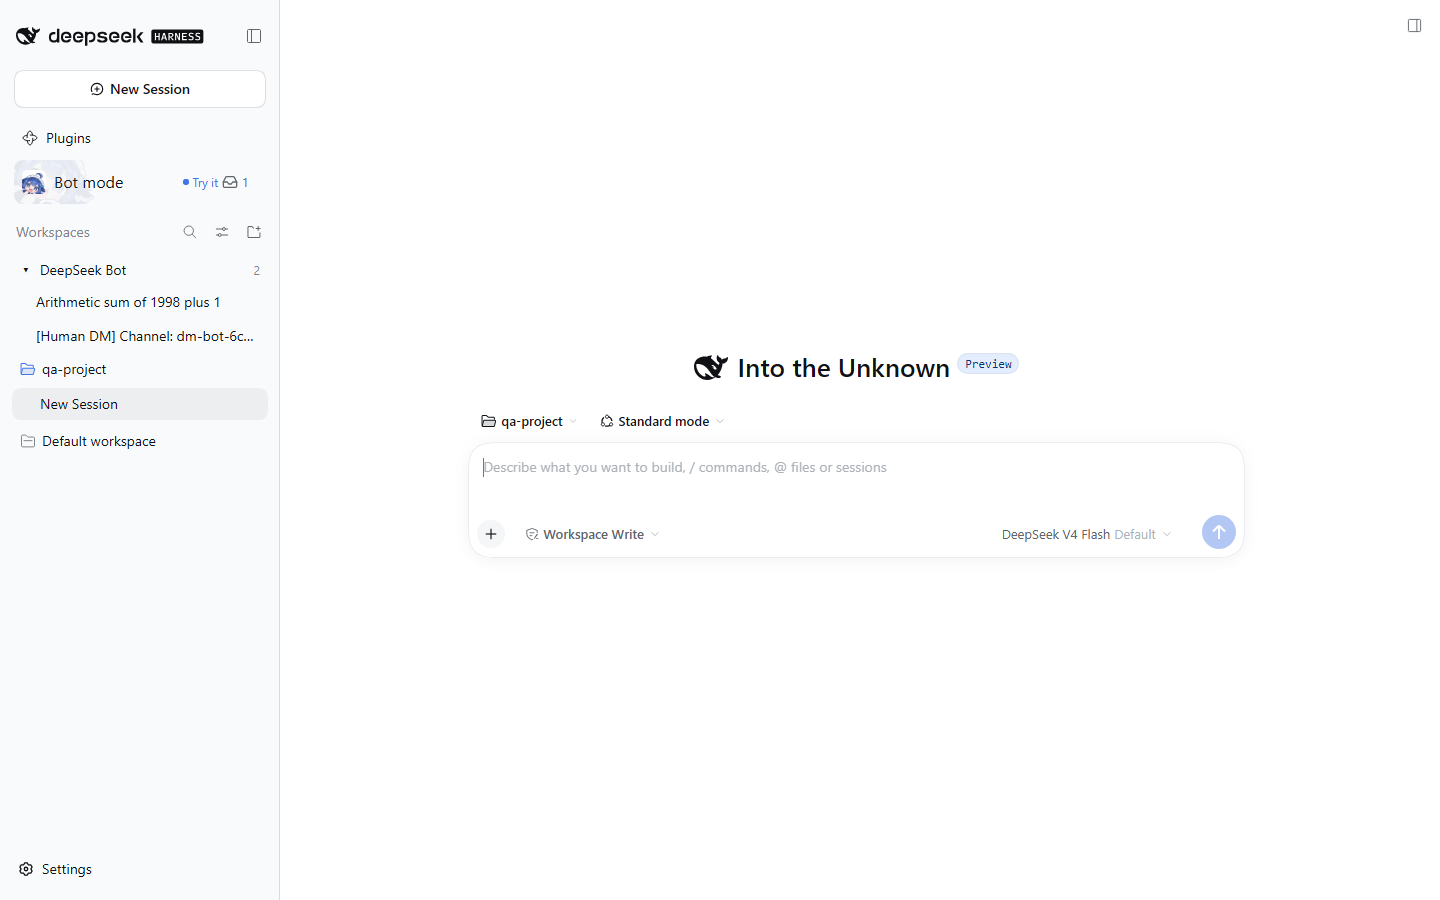
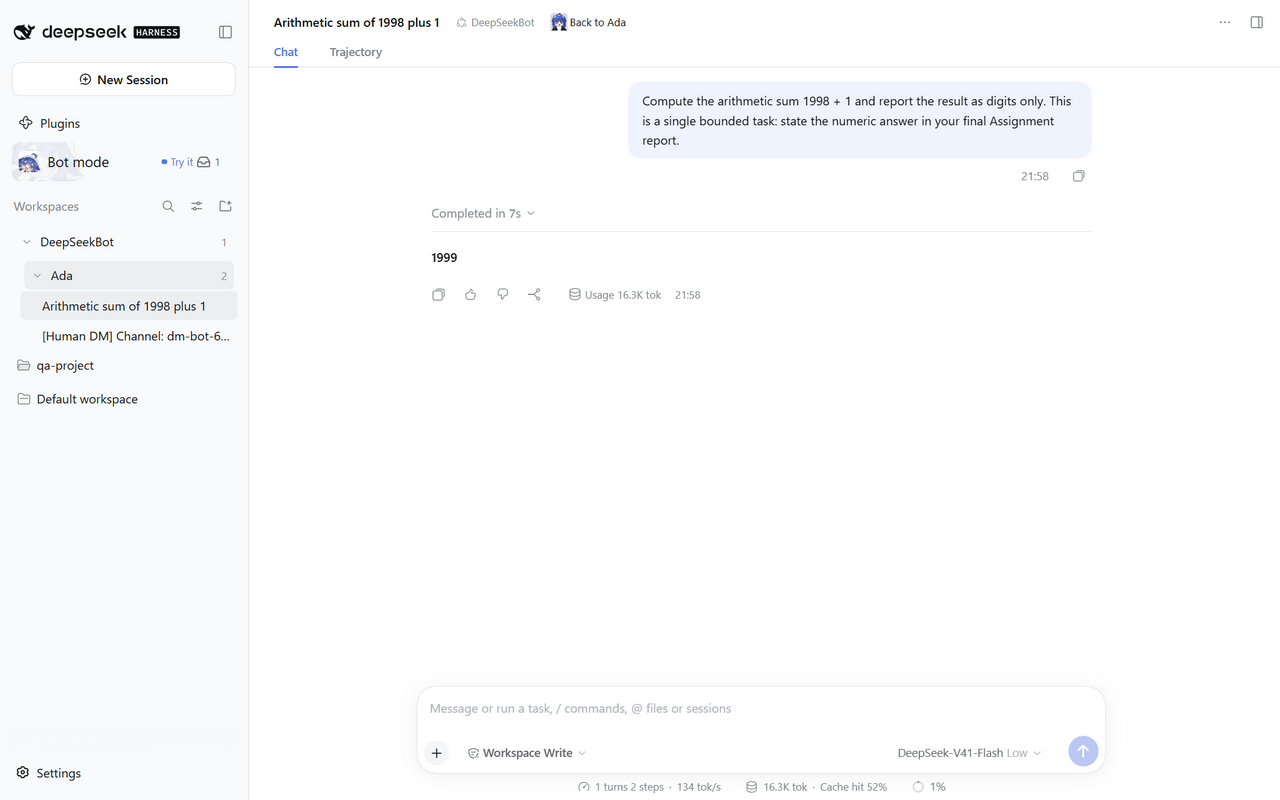
feat(client): nest Bot folders under DeepSeekBot using shared disclosures
Issue: #1997

Agent-Task: codex/local/01a144a1-08d0-71e0-b03f-97138d909131

diff --git a/packages/client/src/client/bot-session-folders.tsx b/packages/client/src/client/bot-session-folders.tsx
@@ -1,10 +1,11 @@
-import { useState } from 'react';
+import { useId, useState } from 'react';
 import { createPortal } from 'react-dom';
 import * as stylex from '@stylexjs/stylex';
 import type { PropsLocale, PropsRuntime } from '@deepseek-ai/dsh-client-ui-slots';
 import type { SessionId } from '@deepseek-ai/dsh-session/types';
 
 import { color, radius, size, space, text } from './ds/tokens.stylex.js';
+import { PanelHeader } from './ds/panel-header.js';
 import type { ConfigStorage } from './roster-config.js';
 import type { LOCALE_NS } from './locale.js';
 import type {
@@ -20,6 +21,7 @@ export interface BotSessionGroup {
 }
 
 export const BOT_FOLDER_PREFERENCES_KEY = 'botharness/native-bot-folders.v1';
+export const BOT_FOLDER_ROOT_KEY = 'section:deepseekbot';
 
 export function readCollapsedBotFolders(storage: ConfigStorage | undefined): string[] {
   try {
@@ -158,6 +160,7 @@ export function mountBotFolderProjection(
 
 const styles = stylex.create({
   folders: { display: 'flex', flexDirection: 'column', gap: space.x1 },
+  bots: { paddingInlineStart: space.x4 },
   button: {
     appearance: 'none',
     borderWidth: 0,
@@ -216,7 +219,9 @@ export function BotSessionFolders({
   const workspace = useWorkspaces((value) => value);
   const host = useBotFolderHost((value) => value);
   const [collapsed, setCollapsed] = useState(() => readCollapsedBotFolders(storage));
+  const bodyId = useId();
   const shown = visible ? visibleBotFolderGroups(groups, list, workspace) : [];
+  const rootExpanded = !collapsed.includes(BOT_FOLDER_ROOT_KEY);
 
   if (host === null || shown.length === 0) return null;
   const toggle = (slug: string): void => {
@@ -231,6 +236,10 @@ export function BotSessionFolders({
   return createPortal(
     <div
       ref={setMounted}
+      data-bot-folder-root=""
+      role="treeitem"
+      aria-level={1}
+      aria-expanded={rootExpanded}
       {...stylex.props(styles.folders)}
       onKeyDown={(event) => {
         if (
@@ -248,50 +257,73 @@ export function BotSessionFolders({
         next.focus();
       }}
     >
-      {shown.map((group) => {
-        const expanded = !collapsed.includes(group.botSlug);
-        return (
-          <div
-            key={group.botSlug}
-            data-bot-folder={group.botSlug}
-            role="treeitem"
-            aria-expanded={expanded}
-          >
-            <button
-              type="button"
-              {...stylex.props(styles.button)}
-              aria-expanded={expanded}
-              onClick={() => toggle(group.botSlug)}
-            >
-              <span aria-hidden="true">{expanded ? '▾' : '▸'}</span>
-              <span {...stylex.props(styles.title)}>{group.displayName}</span>
-              <span {...stylex.props(styles.count)}>{group.sessionIds.length}</span>
-            </button>
-            {expanded && (
-              <div role="group" {...stylex.props(styles.children)}>
-                {group.sessionIds.map((id) => {
-                  const row = list.byId[id as SessionId]!;
-                  const selected = (row.retainedBy['mainView'] ?? 0) > 0;
-                  return (
-                    <button
-                      key={id}
-                      type="button"
-                      data-bot-folder-session={id}
-                      role="treeitem"
-                      aria-selected={selected}
-                      {...stylex.props(styles.button, styles.child, selected && styles.selected)}
-                      onClick={() => openSession(id)}
-                    >
-                      <span {...stylex.props(styles.title)}>{row.displayTitle || id}</span>
-                      {row.running && <span aria-label={t('sessions.status.running')}>●</span>}
-                    </button>
-                  );
-                })}
+      <PanelHeader
+        label="DeepSeekBot"
+        badge={<span {...stylex.props(styles.count)}>{shown.length}</span>}
+        disclosure={{
+          expanded: rootExpanded,
+          controls: bodyId,
+          disabled: false,
+          chevron: true,
+          onToggle: () => toggle(BOT_FOLDER_ROOT_KEY),
+        }}
+      />
+      {rootExpanded && (
+        <div id={bodyId} role="group" {...stylex.props(styles.bots)}>
+          {shown.map((group) => {
+            const expanded = !collapsed.includes(group.botSlug);
+            const groupBodyId = `${bodyId}-${group.botSlug}`;
+            return (
+              <div
+                key={group.botSlug}
+                data-bot-folder={group.botSlug}
+                role="treeitem"
+                aria-level={2}
+                aria-expanded={expanded}
+              >
+                <PanelHeader
+                  label={group.displayName}
+                  badge={<span {...stylex.props(styles.count)}>{group.sessionIds.length}</span>}
+                  disclosure={{
+                    expanded,
+                    controls: groupBodyId,
+                    disabled: false,
+                    chevron: true,
+                    onToggle: () => toggle(group.botSlug),
+                  }}
+                />
+                {expanded && (
+                  <div id={groupBodyId} role="group" {...stylex.props(styles.children)}>
+                    {group.sessionIds.map((id) => {
+                      const row = list.byId[id as SessionId]!;
+                      const selected = (row.retainedBy['mainView'] ?? 0) > 0;
+                      return (
+                        <button
+                          key={id}
+                          type="button"
+                          data-bot-folder-session={id}
+                          role="treeitem"
+                          aria-level={3}
+                          aria-selected={selected}
+                          {...stylex.props(
+                            styles.button,
+                            styles.child,
+                            selected && styles.selected,
+                          )}
+                          onClick={() => openSession(id)}
+                        >
+                          <span {...stylex.props(styles.title)}>{row.displayTitle || id}</span>
+                          {row.running && <span aria-label={t('sessions.status.running')}>●</span>}
+                        </button>
+                      );
+                    })}
+                  </div>
+                )}
               </div>
-            )}
-          </div>
-        );
-      })}
+            );
+          })}
+        </div>
+      )}
     </div>,
     host,
   );

diff --git a/packages/client/test/bot-session-folders.test.tsx b/packages/client/test/bot-session-folders.test.tsx
@@ -11,6 +11,10 @@ import {
 } from '../src/client/bot-session-folders.js';
 import { zhTranslate } from '../src/client/locale.js';
 
+vi.mock('@deepseek-ai/dsh-client-ui-primitives', () => ({
+  IconChevronDownOutlineRegular: () => createElement('svg', { 'aria-hidden': true }),
+}));
+
 Object.assign(globalThis, { IS_REACT_ACT_ENVIRONMENT: true });
 function stub<T>(value: Partial<T>): T {
   return value as T;
@@ -40,7 +44,7 @@ describe('native Bot Session folders', () => {
     const openSession = vi.fn();
     const values = new Map<string, string>();
     const list = {
-      ids: ['orchestrator', 'assignment', 'ordinary'],
+      ids: ['orchestrator', 'assignment', 'ordinary', 'review'],
       byId: {
         orchestrator: {
           displayTitle: 'Coordinate',
@@ -50,10 +54,12 @@ describe('native Bot Session folders', () => {
         },
         assignment: { displayTitle: 'Build', cwd: '/project', retainedBy: {}, running: true },
         ordinary: { displayTitle: 'Ordinary', cwd: '/project', retainedBy: {} },
+        review: { displayTitle: 'Review', cwd: '/another-project', retainedBy: {} },
       },
     };
     const groups = [
       { botSlug: 'ada', displayName: 'Ada', sessionIds: ['orchestrator', 'assignment', 'missing'] },
+      { botSlug: 'lin', displayName: 'Lin', sessionIds: ['review'] },
     ];
     const source = <T,>(value: T) => ({ getSnapshot: () => value, subscribe: () => () => {} });
     let folderHost: HTMLElement | null = null;
@@ -67,14 +73,7 @@ describe('native Bot Session folders', () => {
       },
     });
     const props = stub<BotSessionFoldersProps>({
-      useBotFolderGroups: (select) =>
-        select([
-          {
-            botSlug: 'ada',
-            displayName: 'Ada',
-            sessionIds: ['orchestrator', 'assignment', 'missing'],
-          },
-        ]),
+      useBotFolderGroups: (select) => select(groups),
       useBotFolderPrefs: (select) => select({ showBotSessions: true }),
       useBotFolderHost: (select) => select(folderHost),
       setMounted: (node) => projection.setMounted(node),
@@ -91,8 +90,12 @@ describe('native Bot Session folders', () => {
     });
     try {
       await act(async () => root.render(createElement(BotSessionFolders, props)));
-      expect(tree.querySelectorAll('[data-bot-folder]')).toHaveLength(1);
-      expect(tree.querySelectorAll('[data-bot-folder-session]')).toHaveLength(2);
+      const rootHeader = () =>
+        tree.querySelector<HTMLButtonElement>('[data-bot-folder-root] > div > [data-panel-head]')!;
+      expect(rootHeader().textContent).toBe('DeepSeekBot2');
+      expect(tree.querySelectorAll('[data-bot-folder]')).toHaveLength(2);
+      expect(tree.querySelectorAll('[data-bot-folder-session]')).toHaveLength(3);
+      expect(tree.querySelector('[data-bot-folder="lin"]')?.textContent).toContain('Review');
       expect(tree.querySelector('[data-row-key="session:assignment"]')).toBe(originalRow);
       expect(list.byId.assignment.cwd).toBe('/project');
       await act(async () =>
@@ -100,15 +103,20 @@ describe('native Bot Session folders', () => {
       );
       expect(openSession).toHaveBeenCalledExactlyOnceWith('assignment');
       await act(async () =>
-        tree.querySelector<HTMLButtonElement>('[data-bot-folder="ada"] > button')!.click(),
+        tree.querySelector<HTMLButtonElement>('[data-bot-folder="ada"] [data-panel-head]')!.click(),
       );
-      expect(tree.querySelectorAll('[data-bot-folder-session]')).toHaveLength(0);
+      expect(tree.querySelectorAll('[data-bot-folder-session]')).toHaveLength(1);
+      await act(async () => rootHeader().click());
+      expect(tree.querySelectorAll('[data-bot-folder]')).toHaveLength(0);
+      expect(tree.hasAttribute('data-botharness-folder-tree')).toBe(true);
       await act(async () => root.render(null));
       await act(async () => root.render(createElement(BotSessionFolders, props)));
+      expect(rootHeader().getAttribute('aria-expanded')).toBe('false');
+      await act(async () => rootHeader().click());
       expect(tree.querySelector('[data-bot-folder="ada"]')?.getAttribute('aria-expanded')).toBe(
         'false',
       );
-      expect(tree.querySelectorAll('[data-bot-folder-session]')).toHaveLength(0);
+      expect(tree.querySelectorAll('[data-bot-folder-session]')).toHaveLength(1);
     } finally {
       await act(async () => root.unmount());
       projection.dispose();

diff --git a/.agents/skills/verify-deepseekbot/features/bot-session-folders.md b/.agents/skills/verify-deepseekbot/features/bot-session-folders.md
@@ -2,14 +2,14 @@
 
 ## Sub-features
 
-- `folders` groups explicitly owned Orchestrator and Assignment root Sessions under their Bot name, including different cwd values.
-- `collapse` folds the group and preserves that choice in Client preferences.
+- `folders` adds one DeepSeekBot product section, with Bot/persona subgroups containing explicitly owned Orchestrator and Assignment root Sessions across different cwd values.
+- `collapse` independently folds the product section and Bot subgroups and preserves both choices in Client preferences. Headers reuse the Channel sidebar PanelHeader.
 - `open` opens the exact native Session through UiWorkspace.
 - `coexistence` keeps native Workspace membership and ordinary Sessions intact; Bot visibility settings still apply.
 
 ## How to get to it (user POV)
 
-Send a DM to a Bot and have it create an Assignment in a granted project. Exit Bot mode with the logo. The native Session tree contains one folder named after the Bot. Expand it and choose a Session.
+Send a DM to a Bot and have it create an Assignment in a granted project. Exit Bot mode with the logo. The native Session tree contains a DeepSeekBot section, then one subgroup per Bot/persona. Expand both levels and choose a Session.
 
 ## Driving it with verify-app
 
@@ -18,7 +18,7 @@ Use a task-owned isolated instance that passes doctor. A model is needed to crea
 - Send a real DM with shot and verify the committed Bot reply through channelMessages.
 - Register an isolated project through workspace/create, grant it through grantCreate, and ask the Bot in its DM to create an Assignment there. Read sessions to confirm two root roles and different cwdReference values.
 - Run shot with --bot-mode, --click "Exit Bot mode" and --wait Plugins. Inspect the folder and save the screenshot. Choose a Session and confirm its native header opens for the same id.
-- Fold the Bot folder, refresh, and check the folded state; unfold it and repeat after a Host restart with the same isolated home.
+- Fold a Bot subgroup, then the DeepSeekBot section. Refresh and unfold the section: the Bot subgroup stays folded. Unfold it and repeat after a Host restart with the same isolated home.
 - Read botSessionIds for explicit group membership. Check the native Workspace snapshot before and after: display grouping does not attach or detach Sessions.
 - Run BH_E2E_INSTANCE=.humanlayer/verify/your-name/instance.json node scripts/e2e-bot-session-folders.mjs against the prepared instance. It checks the two roles, groups the visible roots, opens the Assignment and saves light/dark screenshots, collapse and canonical cwd evidence. BH_E2E_RESTART=1 also restarts only that recorded task-owned Host and checks the same browser's saved collapse state.
 

diff --git a/docs/architecture/botharness-architecture.en.md b/docs/architecture/botharness-architecture.en.md
@@ -719,4 +719,4 @@ The application-defined Client diagnostics collector extends the existing ADR-00
 
 ### Bot folders in the native DSH Session list (#1997)
 
-The first tracer groups Orchestrator and Assignment roots by explicit PersonaBot ownership in a collapsible Client projection, independently of cwd. The existing botSessionIds query returns group metadata beside its legacy ID list; native Session facts and UiWorkspace retain titles, execution state and navigation. No Workspace membership, Grant or Session header changes. RC2 lacks an additive group Slot, so a bounded application adapter adds an owned portal host to the native tree and masks duplicate rows only while mounted; missing markup leaves the native list intact. Collapse state is Client-local. Native search stays independent; native per-row menus inside the added folder rows remain outside this first tracer pending Human feedback.
+The first tracer adds one DeepSeekBot product section with Bot/persona subgroups. Orchestrator and Assignment roots are projected by explicit PersonaBot ownership, independently of cwd. Both levels reuse the Channel sidebar PanelHeader and keep independent Client-local collapse preferences. The existing botSessionIds query returns group metadata beside its legacy ID list; native Session facts and UiWorkspace retain titles, execution state and navigation. No Workspace membership, Grant or Session header changes. RC2 lacks an additive group Slot, so a bounded application adapter adds an owned portal host to the native tree and masks duplicate rows only while mounted; missing markup leaves the native list intact. Native search stays independent; native per-row menus inside the added folder rows remain outside this first tracer pending Human feedback.

diff --git a/docs/architecture/botharness-architecture.md b/docs/architecture/botharness-architecture.md
@@ -995,4 +995,4 @@ A local default-on preference preserves saved opt-outs. The switch lives at the 
 
 ### DSH 原生会话列表的 Bot 文件夹（#1997）
 
-首个 tracer 以显式 PersonaBot ownership 将 Orchestrator 与 Assignment 根 Session 投影到可折叠的 Bot 分组，与 cwd 无关。现有 botSessionIds 查询在旧 ID 列表之外返回分组元数据；标题、执行状态和导航继续使用原生 Session 事实及 UiWorkspace。分组不修改 Workspace 成员、Grant 或 Session header。RC2 没有附加分组 Slot，因此有界的应用适配层在原生树中增加自有 portal 挂载点，并仅在挂载期间遮蔽重复行；找不到结构时保留原生列表。折叠状态属于 Client 本地偏好。原生搜索仍独立工作；新增分组行中的原生菜单留待首个 tracer 的 Human 反馈后扩展。
+首个 tracer 增加统一的 DeepSeekBot 产品分组，下面按 Bot／角色建立子组，以显式 PersonaBot ownership 收纳 Orchestrator 与 Assignment 根 Session，与 cwd 无关。两级标题复用 Channel sidebar 的 PanelHeader，并各自保存 Client 本地折叠偏好。现有 botSessionIds 查询在旧 ID 列表之外返回分组元数据；标题、执行状态和导航继续使用原生 Session 事实及 UiWorkspace。分组不修改 Workspace 成员、Grant 或 Session header。RC2 没有附加分组 Slot，因此有界的应用适配层在原生树中增加自有 portal 挂载点，并仅在挂载期间遮蔽重复行；找不到结构时保留原生列表。原生搜索仍独立工作；新增分组行中的原生菜单留待首个 tracer 的 Human 反馈后扩展。

diff --git a/changes/1997-bot-session-folders.md b/changes/1997-bot-session-folders.md
@@ -4,8 +4,8 @@ section: Added
 
 ## en
 
-- Added collapsible Bot folders to the DSH Session list, keeping each Bot's Orchestrator and Assignment Sessions together across execution directories ([#1997](https://github.com/BotHarness/DeepSeekBot/issues/1997)).
+- Added a collapsible DeepSeekBot section with Bot/persona subgroups to the DSH Session list, keeping each Bot's Orchestrator and Assignment Sessions together across execution directories ([#1997](https://github.com/BotHarness/DeepSeekBot/issues/1997)).
 
 ## zh
 
-- DSH 会话列表新增可折叠的 Bot 文件夹，将同一个 Bot 的 Orchestrator 与 Assignment 会话集中收纳，支持不同执行目录（[#1997](https://github.com/BotHarness/DeepSeekBot/issues/1997)）。
+- DSH 会话列表新增可折叠的 DeepSeekBot 分组，按 Bot／角色建立子组，集中收纳其 Orchestrator 与 Assignment 会话，支持不同执行目录（[#1997](https://github.com/BotHarness/DeepSeekBot/issues/1997)）。
